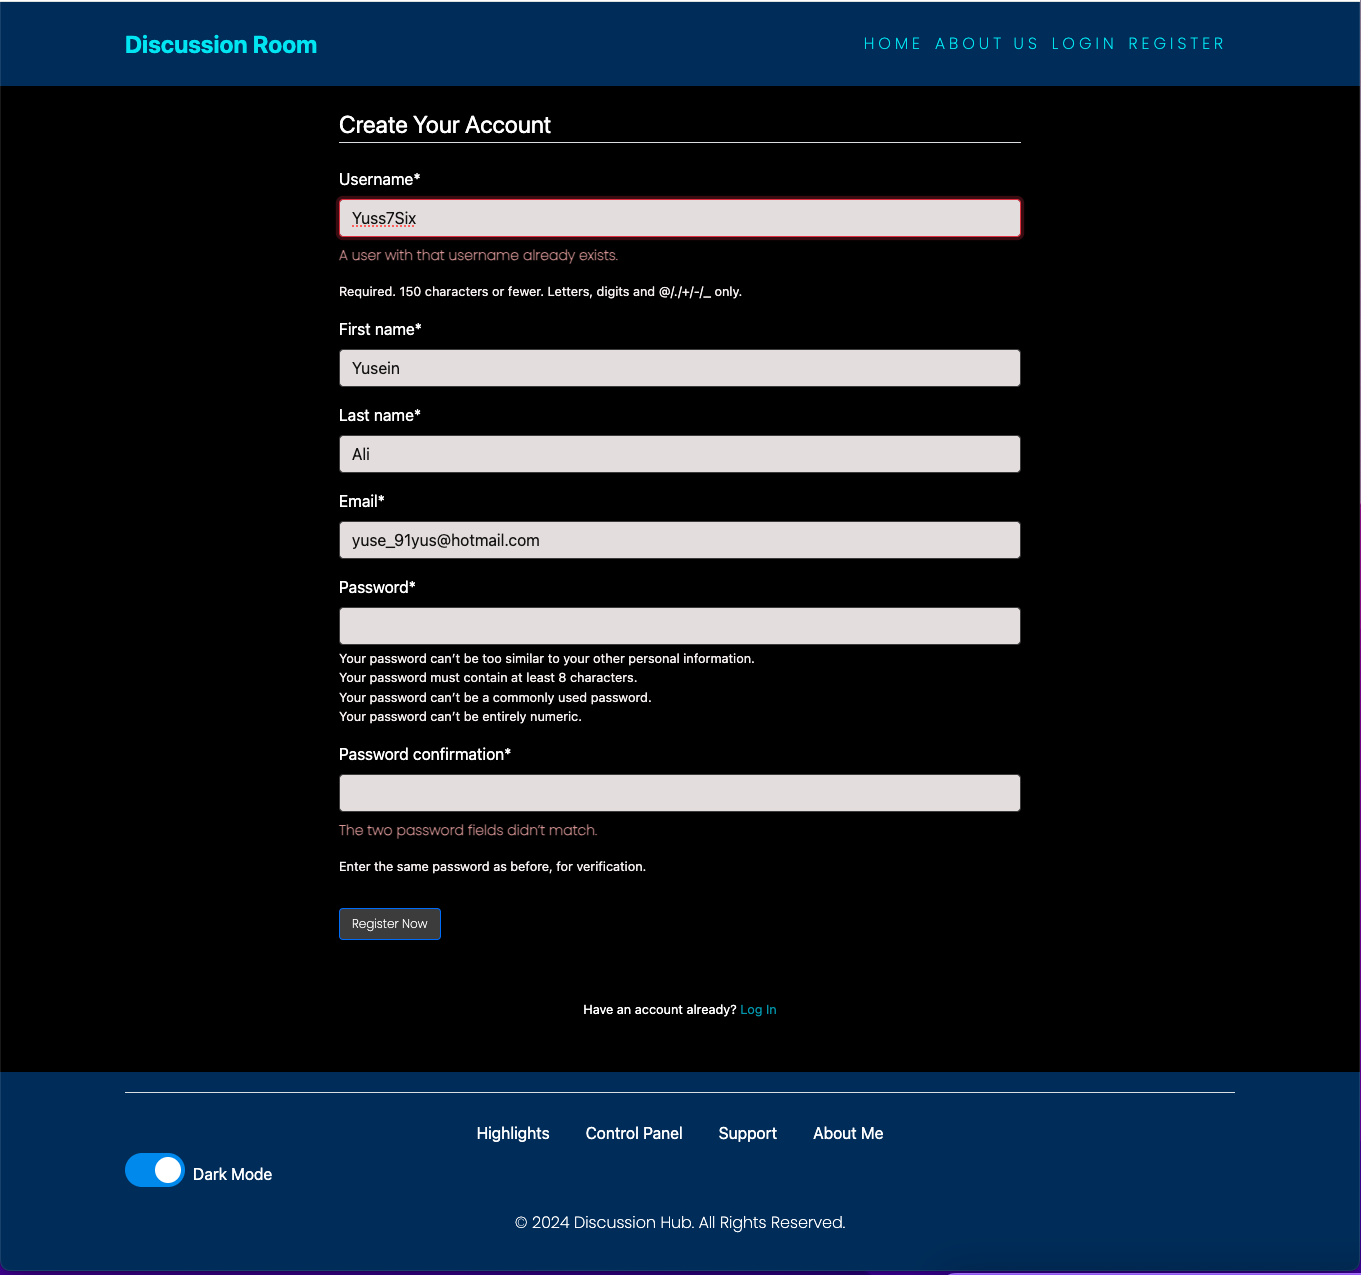
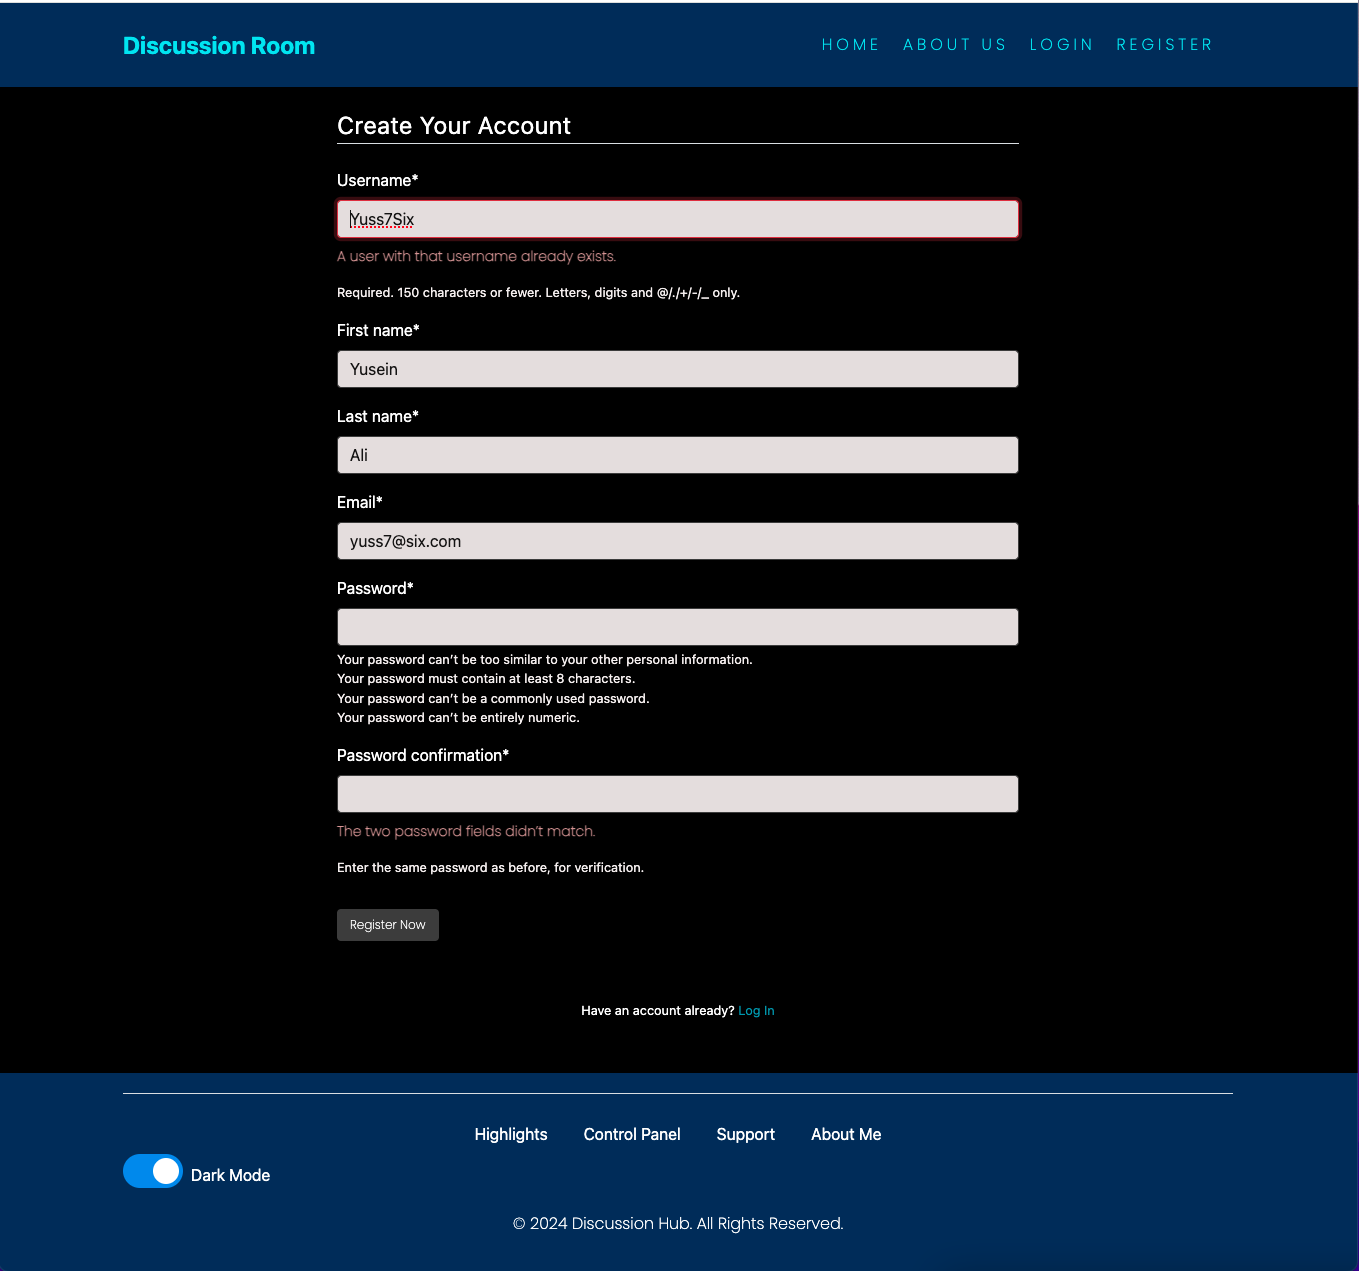
Modify commenting section and delete post in the readme file

diff --git a/README.md b/README.md
@@ -929,7 +929,7 @@ A clean white line visually separates the footer from the login options. The foo
 The Register Page in dark mode mirrors the structure of the Login Page, ensuring a consistent user experience. All input fields are displayed in white, with their corresponding labels also in white, creating a classic input style against the black background. 
 
 * Password Requirements are also presented in white to maintain readability.
-* The Register Now button features a nice blue border, providing a visually appealing call-to-action.
+* The "Register Now" button features a nice grey color, providing a classic combination with white lettering for a visually appealing call-to-action.
 * Below the registration fields, the message for users who already have an account is displayed in white, accompanied by a Log In link styled in a nice blue color.
 * Error Messaging: If users enter incorrect information in the password fields or if they attempt to register a username that is already taken, a warning message will appear below the respective input field. This feedback helps users correct their entries promptly.
 
@@ -939,7 +939,7 @@ At the bottom of the page, the footer is fixed and features all essential links 
 ![Register Page Dark Mode Desktop](static/images/screenshots/darkmoderegisterdesktop.png)
 
 *Register Page Dark Mode Mobile*<br>
-![Register Page Dark Mobile](static/images/screenshots/darkmodelregistermobile.png)
+![Register Page Dark Mobile](static/images/screenshots/darkmoderegistermobile.png)
 
 ## Footer Section ( Dark Mode)
 
